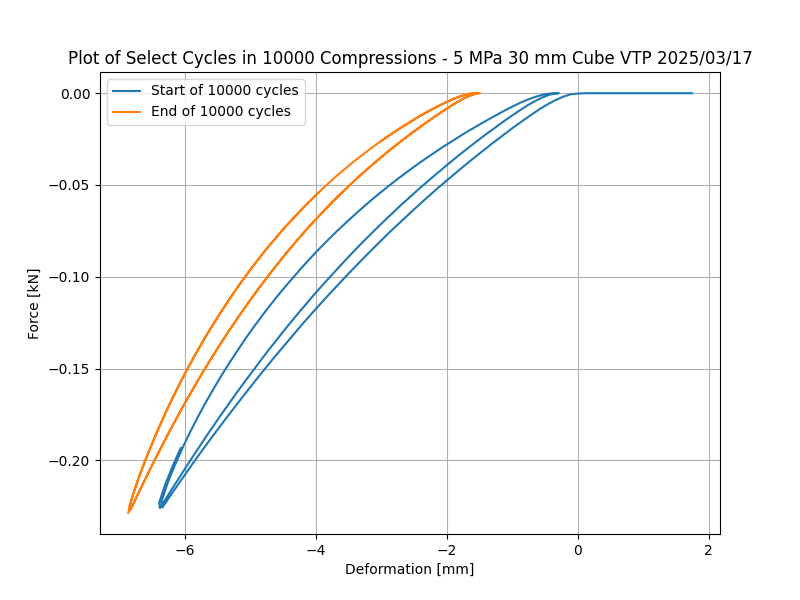
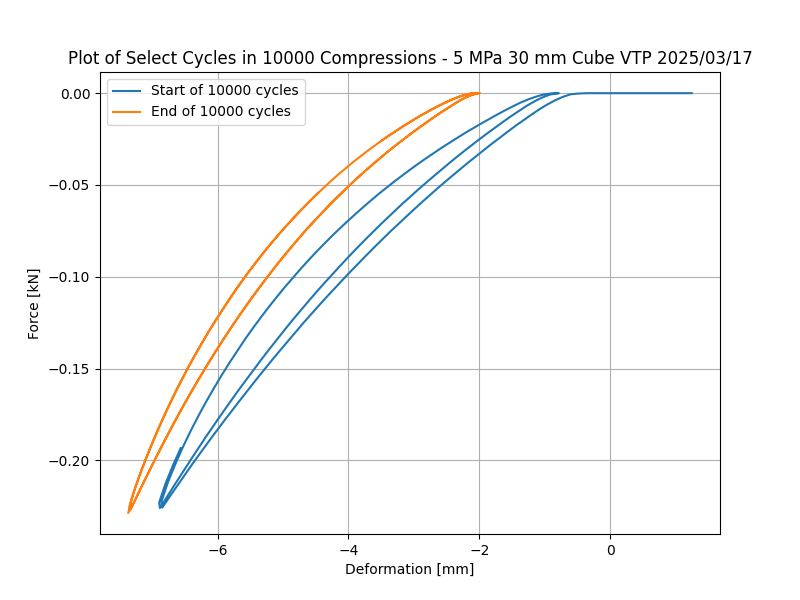
10000 cycles plot

diff --git a/src/compression.py b/src/compression.py
@@ -32,19 +32,19 @@ def get_halved_csv_file(filename):
 def plot_all_compression_data(col1, col2, col3):
     plt.figure(figsize=(8, 6))
     print(type(col2))
-    plt.plot(col2[:180].subtract(19), col3[:180], label="Start of 10000 cycles")
-    # plt.plot(col2[50040:50180], col3[50040:50180], label="At 250 cycles")
-    # plt.plot(col2[100120:100300], col3[100120:100300], label="At 500 cycles")
-    # plt.plot(col2[150050:150230], col3[150050:150230], label="At 750 cycles")
-    plt.plot(col2[-200:-20].subtract(19), col3[-200:-20], label="End of 10000 cycles")
-    # plt.xlim([-13, 0])
-    # plt.ylim([-0.04, 0])
+    plt.plot(col2[:180].subtract(19.5), col3[:180], label="Start of 10000 cycles")
+    plt.plot(col2[200040:200180].subtract(19.5), col3[200040:200180], label="At 2500 cycles")
+    plt.plot(col2[300120:300300].subtract(19.5), col3[300120:300300], label="At 5000 cycles")
+    plt.plot(col2[400050:400230].subtract(19.5), col3[400050:400230], label="At 7500 cycles")
+    plt.plot(col2[-200:-20].subtract(19.5), col3[-200:-20], label="End of 10000 cycles")
+    plt.xlim([-8, 0])
+    plt.ylim([-0.25, 0])
     plt.legend()
     plt.grid()
     plt.xlabel('Deformation [mm]')
     plt.ylabel('Force [kN]')
     plt.title('Plot of Select Cycles in 10000 Compressions - 5 MPa 30 mm Cube VTP 2025/03/17')
-    plt.savefig("./compression_cycling_plot_5000kpa_10000cycles.png")
+    plt.savefig("./compression_cycling_plot_5000kpa_10000cycles_snapshots.png")
     plt.show()
 
 def plot_zoomed_compression_data(col1, col2, col3):
